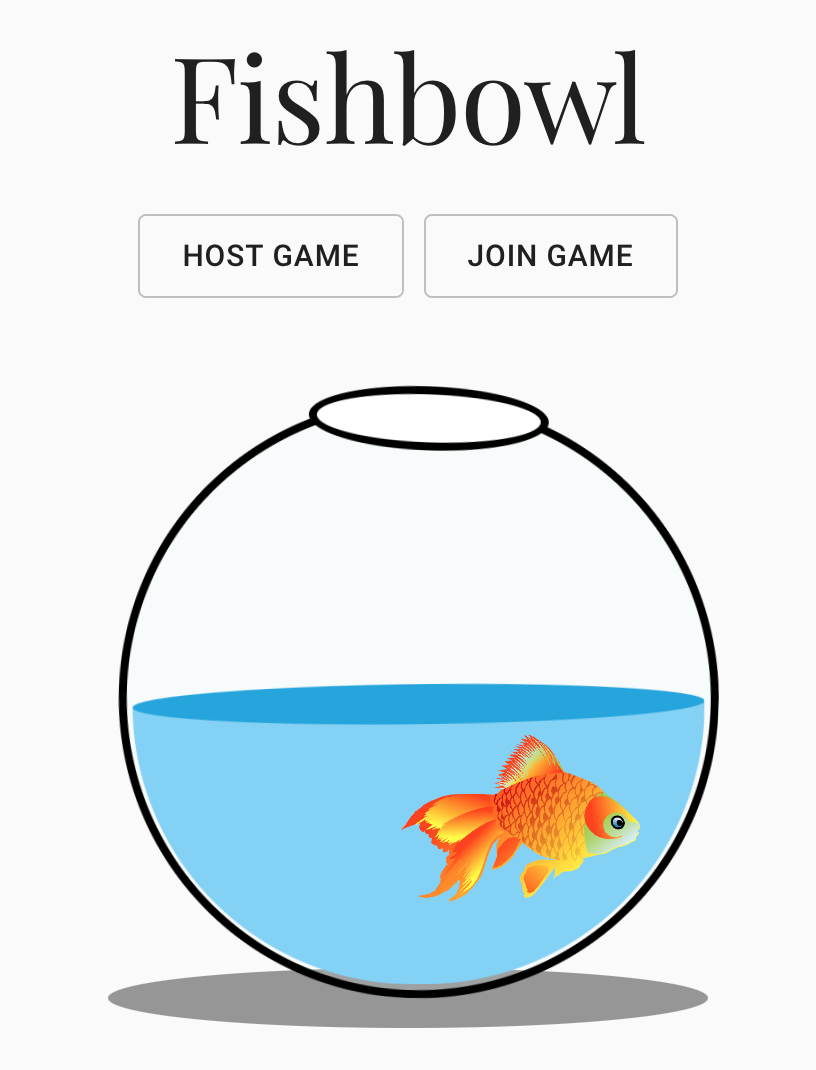
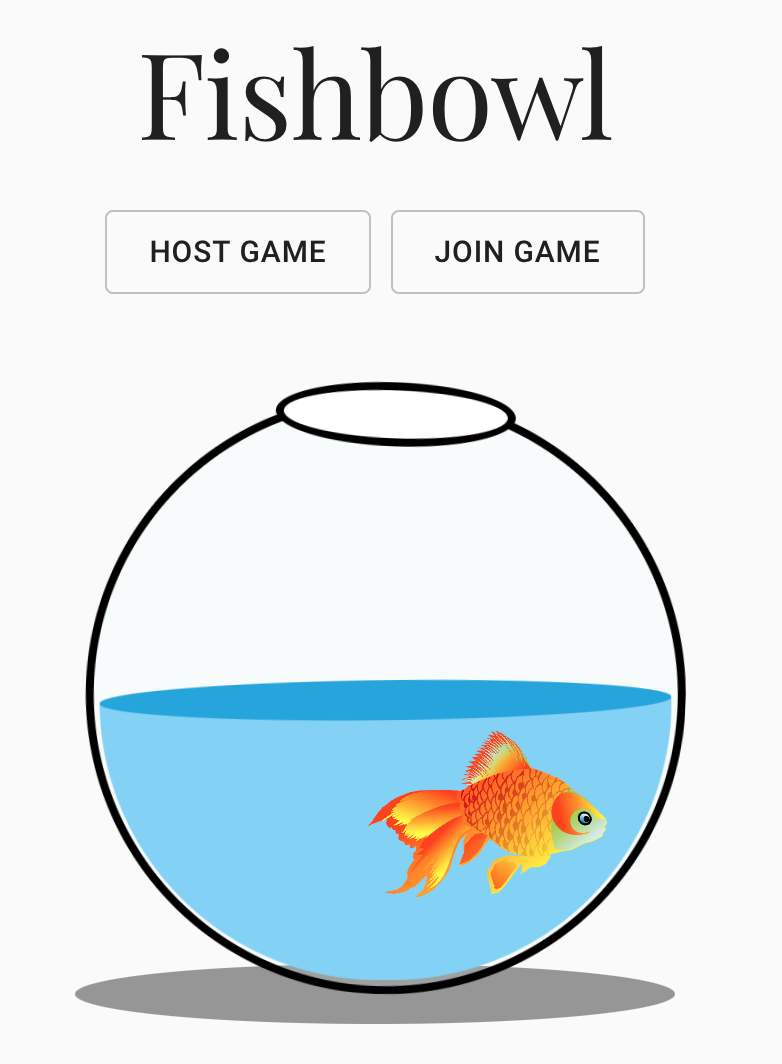
update share image and title

diff --git a/app/public/index.html b/app/public/index.html
@@ -19,7 +19,7 @@
       name="description"
       content="Website to play the Fishbowl game online"
     />
-    <meta property="og:title" conent="Fishbowl: The Game!" />
+    <meta property="og:title" content="Fishbowl: The Game!" />
     <meta property="og:image" content="%PUBLIC_URL%/share-image.png" />
     <!--
       manifest.json provides metadata used when your web app is installed on a
